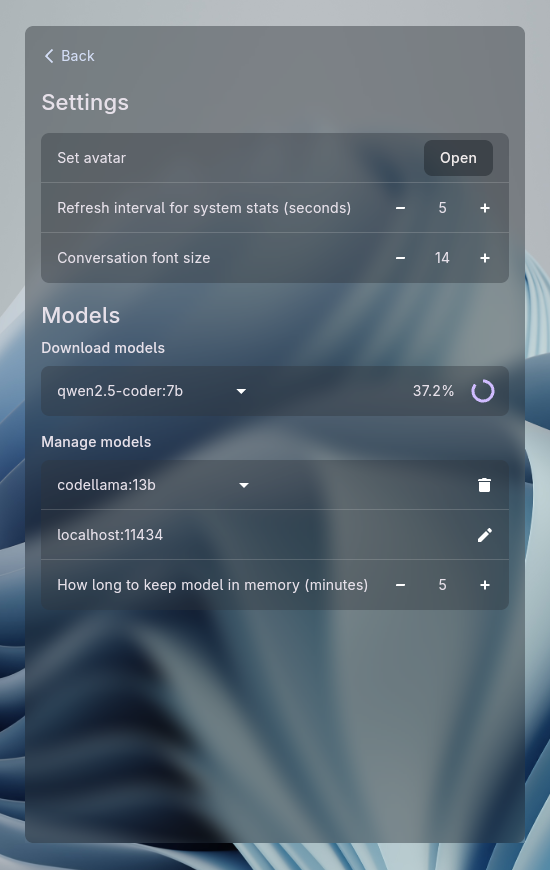
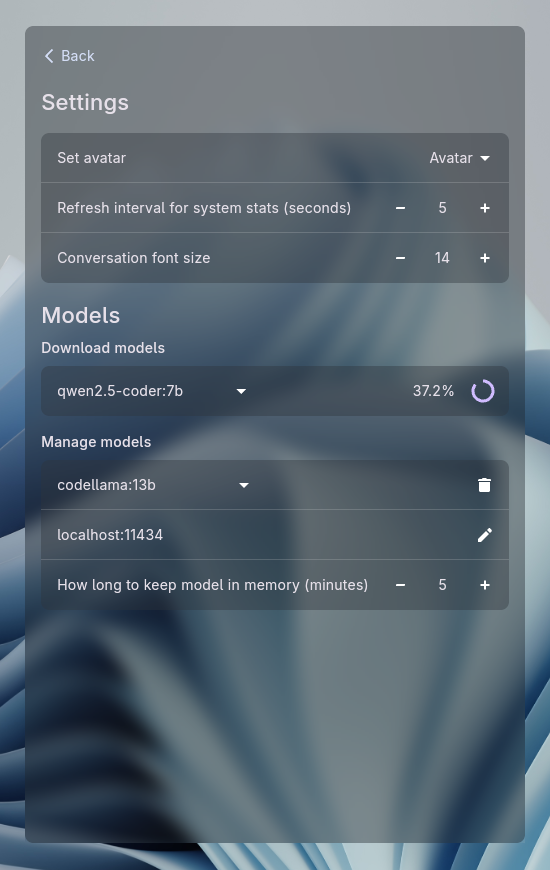
feat: tweak designs & screenshots

diff --git a/ollama_applet_redesign/lib/pages/settings_page.dart b/ollama_applet_redesign/lib/pages/settings_page.dart
@@ -2,13 +2,12 @@ import 'package:flutter/material.dart';
 
 import '../comp/comp_back_row.dart';
 import '../comp/comp_draw_svg.dart';
+import '../comp/comp_drop_down.dart';
 import '../comp/comp_page_shell.dart';
 import '../comp/comp_spinner.dart';
 import '../comp/comp_sub_header.dart';
 import '../comp/comp_tile.dart';
 import '../comp/comp_tile_container.dart';
-import '../constants.dart';
-import '../widgets/accent_button.dart';
 
 class SettingsPage extends StatelessWidget {
   const SettingsPage({super.key});
@@ -35,11 +34,7 @@ class SettingsPage extends StatelessWidget {
                 children: [
                   CompTile(
                     leading: Text("Set avatar"),
-                    trailing: AccentButton(
-                      label: "Open",
-                      subjectColor: Color(0xFFEFEAEA),
-                      color: kBgColor.withAlpha(120),
-                    ),
+                    trailing: CompDropDown(label: "Avatar"),
                   ),
                   CompTile(
                     leading: Text(

diff --git a/ollama_applet_redesign/lib/widgets/history_item.dart b/ollama_applet_redesign/lib/widgets/history_item.dart
@@ -37,10 +37,10 @@ class HistoryItem extends StatelessWidget {
             children: [
               Text(
                 title,
-                style: TextStyle(fontSize: 16, fontWeight: FontWeight.w500),
+                style: TextStyle(fontSize: 14, fontWeight: FontWeight.w500),
               ),
               SizedBox(height: 4),
-              Text(date, style: TextStyle(color: Colors.white70)),
+              Text(date, style: TextStyle(color: Colors.white70, fontSize: 12)),
             ],
           ),
         ],

diff --git a/ollama_applet_redesign/lib/comp/comp_drop_down.dart b/ollama_applet_redesign/lib/comp/comp_drop_down.dart
@@ -1,0 +1,20 @@
+import 'package:flutter/material.dart';
+
+import 'comp_draw_svg.dart';
+
+class CompDropDown extends StatelessWidget {
+  const CompDropDown({super.key, required this.label});
+
+  final String label;
+
+  @override
+  Widget build(BuildContext context) {
+    return Row(
+      children: [
+        Text(label),
+        SizedBox(width: 4),
+        CompDrawSvg(iconName: "down"),
+      ],
+    );
+  }
+}
